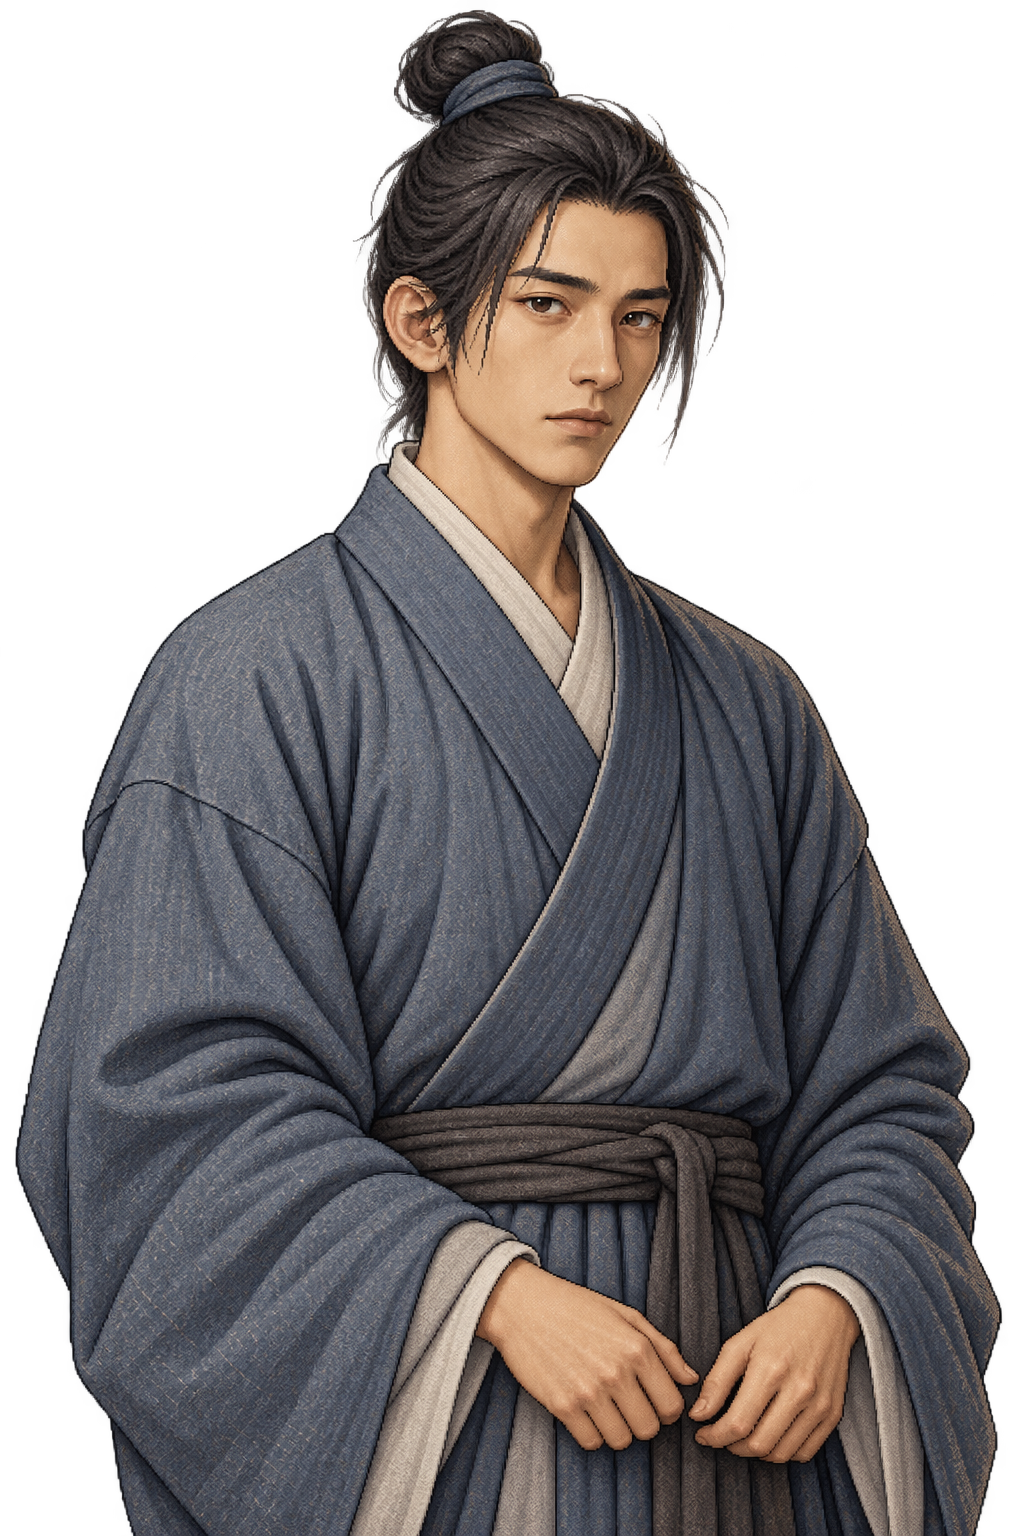
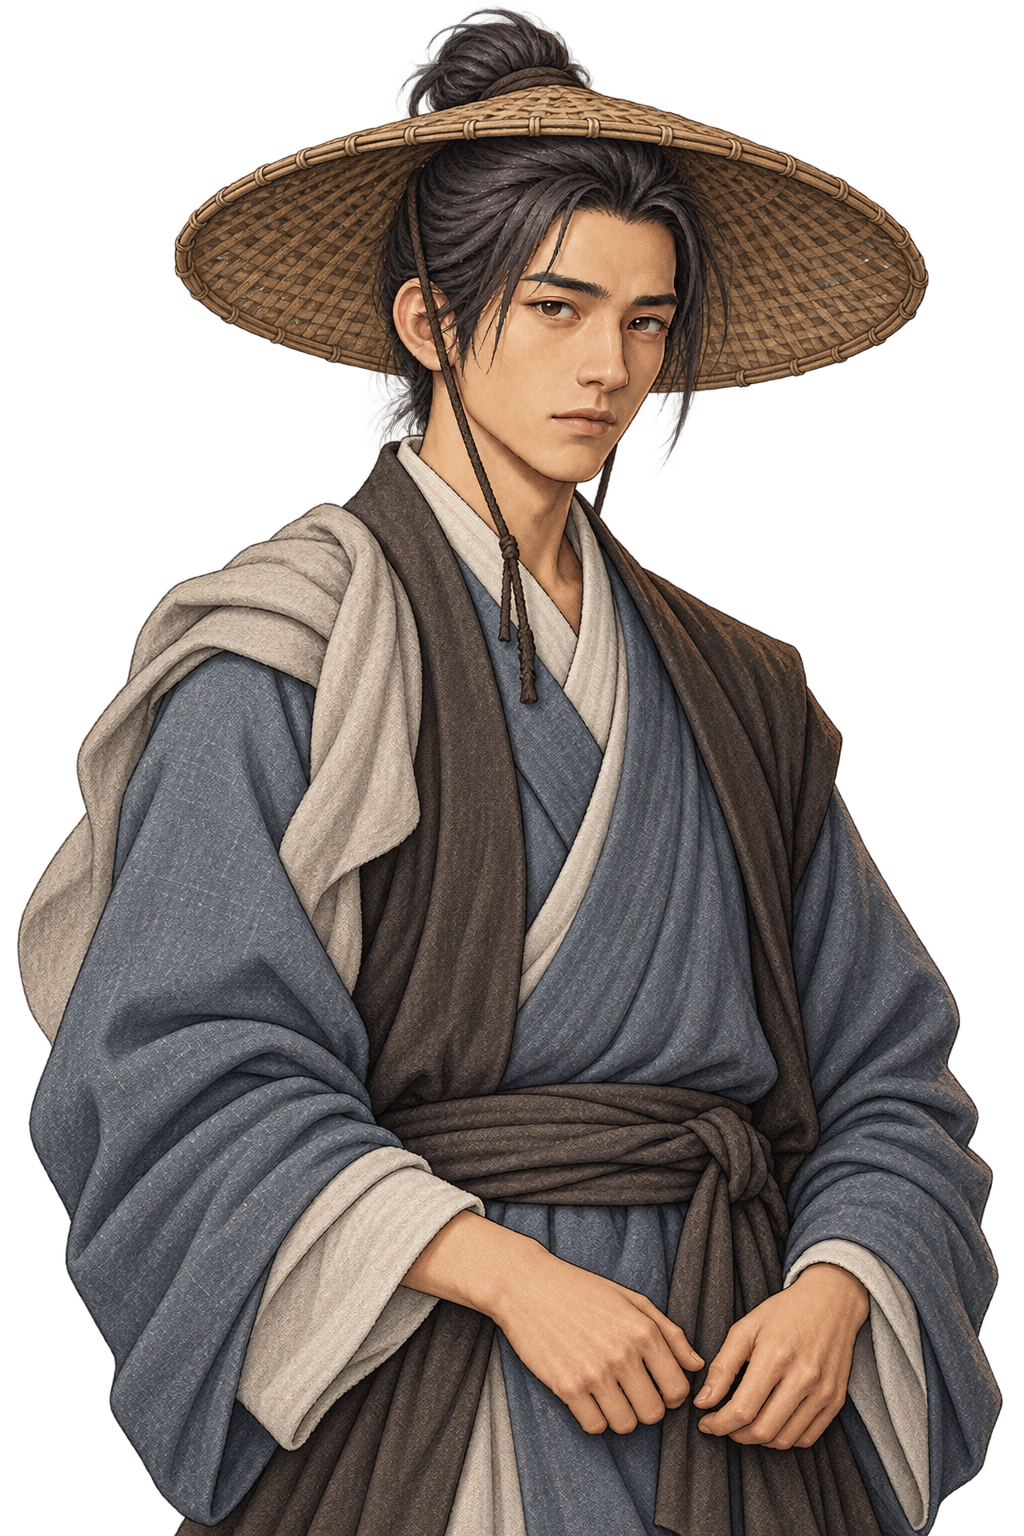
Give protagonist a wide travel hat and wandering attire

diff --git a/godot/assets/portraits/player/README.md b/godot/assets/portraits/player/README.md
@@ -5,7 +5,8 @@
 사용자 지정 외형을 반영한 주인공/플레이어 전용 초상화이다.
 
 - 젊은 남성, 기본 표정은 무표정.
-- 소박하고 단정하며 해지지 않은 평상복. 차분한 회청색 겉옷과 밝은 속깃, 천 허리띠.
+- 향후 소속 없는 낭인이 될 주인공에 맞춰, 자유롭게 떠도는 여행자 분위기의 복식. 회청색 속옷 위에 느슨하게 걸친 짙은 겉옷과 어깨 천, 소박한 천 허리띠. 옷은 소탈하지만 해지거나 찢어지지 않는다.
+- 넓은 챙의 삿갓을 살짝 뒤로 젖혀 착용하고, 대화 중 눈과 표정이 잘 보이게 한다.
 - 무기는 플레이어가 추후 선택하므로 무기·칼집·장비를 그리지 않는다.
 - 기존 대화 초상화와 어울리는 도트 질감 반신 일러스트, 투명 배경 PNG.
 
